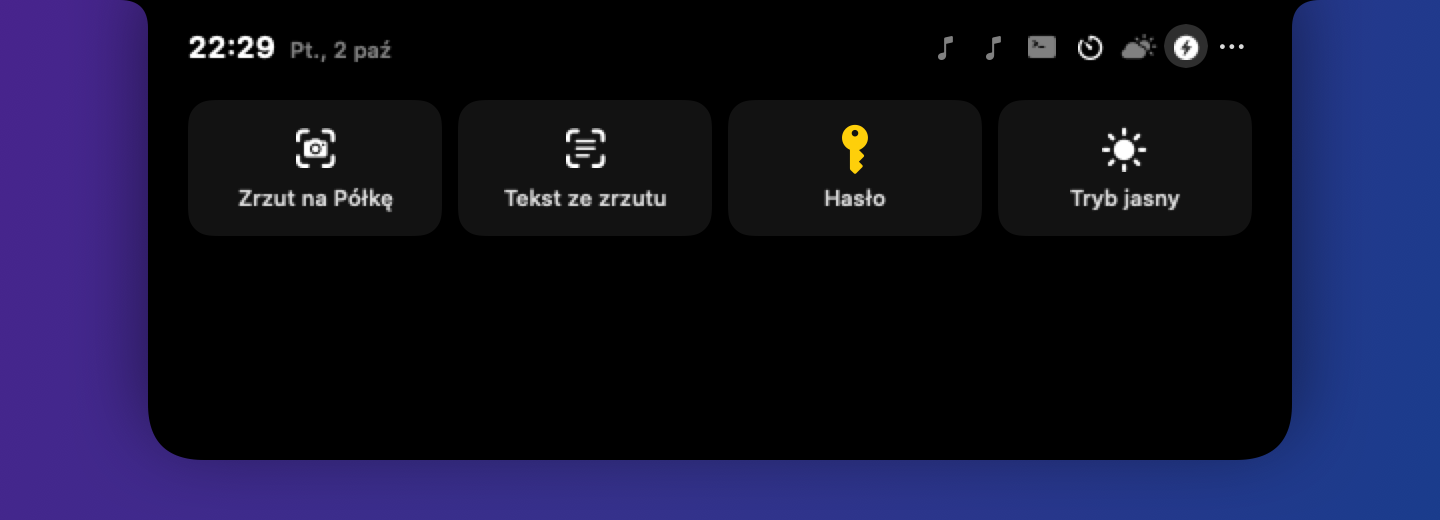
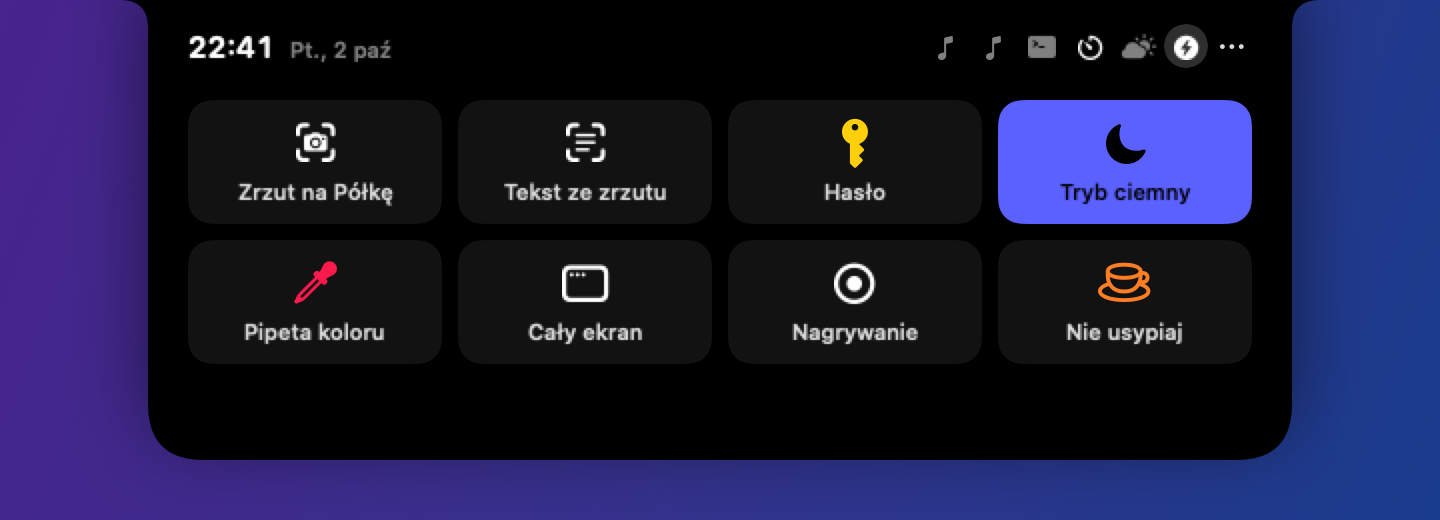
feat: Szybkie akcje — 8 miejsc z wyborem akcji i przełącznikiem, osobna karta ustawień
W każdym miejscu akcja z listy (wybór zajętej = zamiana miejsc) i przełącznik, najmniej
2 włączone. Kafelki i skróty w nowej karcie „Szybkie akcje” okna ustawień.

Claude-Session: https://claude.ai/code/session_01FJMsysatB5QqQDV4814giK

diff --git a/Sources/Features/QuickActions/QuickActionsModule.swift b/Sources/Features/QuickActions/QuickActionsModule.swift
@@ -19,8 +19,10 @@ public final class QuickActionsModule: IslandModule {
 
     static let shelfZone = "shelf.store"
     private static let shortcutsKey = "shortcuts"
-    private static let visibleKey = "visibleActions"
-    static let defaultVisible: [Action] = [.capture, .captureText, .password, .darkMode]
+    private static let slotsKey = "slots"
+    public typealias Slot = ActionSlot<Action>
+    static let defaultSlots: [Slot] = [Action.capture, .captureText, .password, .darkMode, .pickColor, .captureScreen, .record, .keepAwake]
+        .map { Slot(action: $0, isEnabled: true) }
 
     public enum Action: String, CaseIterable, Codable, Sendable {
         case capture, captureScreen, captureText, record, pickColor, password, darkMode, desktopIcons, lock, keepAwake
@@ -39,12 +41,30 @@ public final class QuickActionsModule: IslandModule {
             case .keepAwake: "Nie usypiaj (przełącz)"
             }
         }
+
+        /// Ikona na liście wyboru w ustawieniach.
+        public var symbol: String {
+            switch self {
+            case .capture: "camera.viewfinder"
+            case .captureScreen: "macwindow"
+            case .captureText: "text.viewfinder"
+            case .record: "record.circle"
+            case .pickColor: "eyedropper"
+            case .password: "key.fill"
+            case .darkMode: "circle.lefthalf.filled"
+            case .desktopIcons: "menubar.dock.rectangle"
+            case .lock: "lock.fill"
+            case .keepAwake: "cup.and.saucer"
+            }
+        }
     }
     static let feedbackDisplay: Duration = .seconds(3)
 
     public private(set) var isKeepingAwake = false
-    /// Kafelki w wyspie (2–4, w kolejności z `Action.allCases`); skróty działają dla wszystkich akcji.
-    public private(set) var visibleActions: [Action]
+    /// 8 miejsc: w każdym akcja z listy i przełącznik (najmniej 2 włączone); skróty działają dla wszystkich akcji.
+    public private(set) var slots: [Slot]
+    /// Kafelki w wyspie: akcje z włączonych miejsc, w kolejności miejsc.
+    public var visibleActions: [Action] { slots.filter(\.isEnabled).map(\.action) }
     public private(set) var isDarkMode = false
     public private(set) var desktopIconsVisible = true
     /// Hasło znika ze schowka po tym czasie, jeśli nic innego nie zostało skopiowane.
@@ -68,9 +88,7 @@ public final class QuickActionsModule: IslandModule {
 
     public required init(context: ModuleContext) {
         self.context = context
-        let storedVisible: [String] = context.settings.value(Self.visibleKey, default: Self.defaultVisible.map(\.rawValue))
-        let restored = Action.allCases.filter { storedVisible.contains($0.rawValue) }
-        visibleActions = QuickActionsLogic.visibleRange.contains(restored.count) ? restored : Self.defaultVisible
+        slots = QuickActionsLogic.validated(context.settings.value(Self.slotsKey, default: [Slot]?.none), default: Self.defaultSlots)
         let stored: [String: HotkeyShortcut] = context.settings.value(Self.shortcutsKey, default: [:])
         shortcuts = Dictionary(uniqueKeysWithValues: stored.compactMap { key, value in Action(rawValue: key).map { ($0, value) } })
     }
@@ -95,18 +113,23 @@ public final class QuickActionsModule: IslandModule {
 
     // MARK: - Skróty
 
-    func isVisible(_ action: Action) -> Bool { visibleActions.contains(action) }
-
-    /// Czy przełącznik akcji jest aktywny (nie da się zejść poniżej 2 ani przekroczyć 4).
-    func canToggle(_ action: Action) -> Bool {
-        QuickActionsLogic.toggling(action, in: visibleActions, order: Action.allCases) != nil
+    func chooseAction(_ action: Action, at index: Int) {
+        save(QuickActionsLogic.choosing(action, at: index, in: slots))
     }
 
-    func setVisible(_ action: Action, _ visible: Bool) {
-        guard visible != isVisible(action),
-              let next = QuickActionsLogic.toggling(action, in: visibleActions, order: Action.allCases) else { return }
-        visibleActions = next
-        context.settings.set(next.map(\.rawValue), for: Self.visibleKey)
+    /// Czy przełącznik miejsca jest aktywny (wyłączyć można tylko, gdy zostaną najmniej 2 włączone).
+    func canSetSlot(_ enabled: Bool, at index: Int) -> Bool {
+        QuickActionsLogic.setting(enabled, at: index, in: slots) != nil
+    }
+
+    func setSlot(_ enabled: Bool, at index: Int) {
+        guard let next = QuickActionsLogic.setting(enabled, at: index, in: slots) else { return }
+        save(next)
+    }
+
+    private func save(_ next: [Slot]) {
+        slots = next
+        context.settings.set(next, for: Self.slotsKey)
     }
 
     func setShortcut(_ shortcut: HotkeyShortcut?, for action: Action) {

diff --git a/Tests/WyspaQuickActionsTests/QuickActionsTests.swift b/Tests/WyspaQuickActionsTests/QuickActionsTests.swift
@@ -86,32 +86,35 @@ struct QuickActionsSelectionTests {
         #expect(QuickActionsLogic.password() != QuickActionsLogic.password())
     }
 
-    @Test("Widoczne akcje: od 2 do 4, kolejność stała")
-    func toggling() {
-        let order = QuickActionsModule.Action.allCases
-        let four: [QuickActionsModule.Action] = [.capture, .captureText, .password, .darkMode]
-        #expect(QuickActionsLogic.toggling(.lock, in: four, order: order) == nil, "piąta akcja niedozwolona")
-        let three = QuickActionsLogic.toggling(.password, in: four, order: order)
-        #expect(three == [.capture, .captureText, .darkMode])
-        let two = QuickActionsLogic.toggling(.capture, in: three!, order: order)
-        #expect(two == [.captureText, .darkMode])
-        #expect(QuickActionsLogic.toggling(.darkMode, in: two!, order: order) == nil, "mniej niż 2 niedozwolone")
-        #expect(QuickActionsLogic.toggling(.record, in: two!, order: order) == [.captureText, .record, .darkMode])
+    @Test("Miejsca: wybór akcji zamienia z innym miejscem, najmniej 2 włączone")
+    func slots() {
+        typealias Slot = ActionSlot<QuickActionsModule.Action>
+        let slots = QuickActionsModule.defaultSlots
+        #expect(slots.count == QuickActionsLogic.slotCount && slots.allSatisfy(\.isEnabled))
+        let swapped = QuickActionsLogic.choosing(.keepAwake, at: 0, in: slots)
+        #expect(swapped[0].action == .keepAwake && swapped[7].action == .capture, "zamiana zamiast duplikatu")
+        let fresh = QuickActionsLogic.choosing(.lock, at: 1, in: slots)
+        #expect(fresh[1].action == .lock && Set(fresh.map(\.action)).count == 8)
+        var current = slots
+        for index in 0..<6 { current = QuickActionsLogic.setting(false, at: index, in: current)! }
+        #expect(current.filter(\.isEnabled).count == 2)
+        #expect(QuickActionsLogic.setting(false, at: 6, in: current) == nil, "mniej niż 2 niedozwolone")
+        #expect(QuickActionsLogic.setting(true, at: 0, in: current) != nil)
     }
 
-    @Test("Wybór zapisuje się; przełącznik zablokowany na granicach")
+    @Test("Zapis miejsc i odrzucenie uszkodzonego zapisu")
     func persisted() throws {
-        let defaults = try #require(UserDefaults(suiteName: "wyspa.quick.visible.\(UUID().uuidString)"))
+        let defaults = try #require(UserDefaults(suiteName: "wyspa.quick.slots.\(UUID().uuidString)"))
         let context = ModuleContext(settings: SettingsStore(defaults: defaults).moduleSettings(for: "quickactions"), requestExpand: {})
         let module = QuickActionsModule(context: context)
-        #expect(module.visibleActions == QuickActionsModule.defaultVisible)
-        #expect(!module.canToggle(.lock), "przy 4 widocznych nie da się włączyć piątej")
-        module.setVisible(.password, false)
-        module.setVisible(.lock, true)
-        #expect(QuickActionsModule(context: context).visibleActions == [.capture, .captureText, .darkMode, .lock])
-        module.setVisible(.capture, false)
-        module.setVisible(.captureText, false)
-        #expect(module.visibleActions.count == 2 && !module.canToggle(.darkMode))
+        #expect(module.visibleActions.count == 8)
+        module.chooseAction(.desktopIcons, at: 2)
+        module.setSlot(false, at: 3)
+        let restored = QuickActionsModule(context: context)
+        #expect(restored.slots[2].action == .desktopIcons && !restored.slots[3].isEnabled)
+        #expect(restored.visibleActions.count == 7 && restored.canSetSlot(true, at: 3))
+        let broken = [ActionSlot(action: QuickActionsModule.Action.capture, isEnabled: true)]
+        #expect(QuickActionsLogic.validated(broken, default: QuickActionsModule.defaultSlots) == QuickActionsModule.defaultSlots)
     }
 
     @Test("Ikony na biurku: brak ustawienia znaczy widoczne")

diff --git a/Sources/Features/QuickActions/QuickActionsLogic.swift b/Sources/Features/QuickActions/QuickActionsLogic.swift
@@ -29,16 +29,38 @@ public enum QuickActionsLogic {
         return "Skopiowano tekst: \(count) \(noun)"
     }
 
-    // MARK: - Widoczne akcje
+    // MARK: - Miejsca na akcje
 
-    /// Ile kafelków naraz: najmniej 2, najwięcej 4.
-    public static let visibleRange = 2...4
+    /// Stałe miejsca na kafelki w wyspie; w każdym wybrana akcja i przełącznik.
+    public static let slotCount = 8
+    public static let minimumEnabled = 2
 
-    /// Nowy zestaw widocznych akcji po przełączeniu jednej; `nil`, gdy wyszłoby poza zakres (zostaje jak było).
-    public static func toggling<Action: Hashable>(_ action: Action, in visible: [Action], order: [Action]) -> [Action]? {
-        let next = visible.contains(action) ? visible.filter { $0 != action } : visible + [action]
-        guard visibleRange.contains(next.count) else { return nil }
-        return order.filter(next.contains)
+    /// Wybór akcji w miejscu. Gdy ta akcja jest już w innym miejscu, miejsca zamieniają się akcjami (bez duplikatów).
+    public static func choosing<Action: Hashable>(_ action: Action, at index: Int, in slots: [ActionSlot<Action>]) -> [ActionSlot<Action>] {
+        guard slots.indices.contains(index) else { return slots }
+        let previous = slots[index].action
+        return slots.enumerated().map { offset, slot in
+            if offset == index { return ActionSlot(action: action, isEnabled: slot.isEnabled) }
+            if slot.action == action { return ActionSlot(action: previous, isEnabled: slot.isEnabled) }
+            return slot
+        }
+    }
+
+    /// Włączenie albo wyłączenie miejsca; `nil`, gdy zostałoby mniej niż 2 włączone.
+    public static func setting<Action: Hashable>(_ enabled: Bool, at index: Int, in slots: [ActionSlot<Action>]) -> [ActionSlot<Action>]? {
+        guard slots.indices.contains(index) else { return nil }
+        let next = slots.enumerated().map { offset, slot in
+            offset == index ? ActionSlot(action: slot.action, isEnabled: enabled) : slot
+        }
+        return next.filter(\.isEnabled).count >= minimumEnabled ? next : nil
+    }
+
+    /// Zapisane miejsca albo domyślne, gdy zapis jest niepełny, ma powtórki albo za mało włączonych.
+    public static func validated<Action: Hashable>(_ slots: [ActionSlot<Action>]?, default fallback: [ActionSlot<Action>]) -> [ActionSlot<Action>] {
+        guard let slots, slots.count == slotCount, Set(slots.map(\.action)).count == slotCount,
+              slots.filter(\.isEnabled).count >= minimumEnabled
+        else { return fallback }
+        return slots
     }
 
     // MARK: - Hasło
@@ -101,3 +123,17 @@ public enum QuickActionsLogic {
         return directory.appendingPathComponent("Zrzut \(formatter.string(from: date)).png")
     }
 }
+
+/// Miejsce na kafelek szybkiej akcji.
+public struct ActionSlot<Action: Hashable>: Hashable {
+    public let action: Action
+    public let isEnabled: Bool
+
+    public init(action: Action, isEnabled: Bool) {
+        self.action = action
+        self.isEnabled = isEnabled
+    }
+}
+
+extension ActionSlot: Codable where Action: Codable {}
+extension ActionSlot: Sendable where Action: Sendable {}

diff --git a/Sources/Features/QuickActions/QuickActionsView.swift b/Sources/Features/QuickActions/QuickActionsView.swift
@@ -7,7 +7,7 @@ struct QuickActionsView: View {
 
     var body: some View {
         VStack(alignment: .leading, spacing: 8) {
-            let columns = Array(repeating: GridItem(.flexible(), spacing: 8), count: compact ? 2 : module.visibleActions.count)
+            let columns = Array(repeating: GridItem(.flexible(), spacing: 8), count: min(module.visibleActions.count, 4))
             LazyVGrid(columns: columns, spacing: 8) {
                 ForEach(module.visibleActions, id: \.self) { action in
                     tile(action)
@@ -83,7 +83,7 @@ private struct ActionTile: View {
                     .minimumScaleFactor(0.8)
             }
             .frame(maxWidth: .infinity)
-            .padding(.vertical, compact ? 6 : 12)
+            .padding(.vertical, compact ? 5 : 9)
             .background(
                 RoundedRectangle(cornerRadius: 12, style: .continuous)
                     .fill(isOn ? tint : .white.opacity(isHovered ? 0.14 : 0.07))
@@ -100,14 +100,26 @@ struct QuickActionsSettingsView: View {
 
     var body: some View {
         VStack(alignment: .leading, spacing: 6) {
-            Text("Widoczne w wyspie (od 2 do 4)").font(.headline)
-            ForEach(QuickActionsModule.Action.allCases, id: \.self) { action in
-                Toggle(action.displayName, isOn: Binding(get: { module.isVisible(action) },
-                                                         set: { module.setVisible(action, $0) }))
-                    .toggleStyle(.switch)
-                    .disabled(!module.canToggle(action))
+            Text("Kafelki w wyspie").font(.headline)
+            ForEach(Array(module.slots.enumerated()), id: \.offset) { index, slot in
+                HStack(spacing: 10) {
+                    Text("\(index + 1).").monospacedDigit().foregroundStyle(.secondary).frame(width: 20, alignment: .trailing)
+                    Picker("", selection: Binding(get: { slot.action }, set: { module.chooseAction($0, at: index) })) {
+                        ForEach(QuickActionsModule.Action.allCases, id: \.self) { action in
+                            Label(action.displayName, systemImage: action.symbol).tag(action)
+                        }
+                    }
+                    .labelsHidden()
+                    .frame(maxWidth: 260)
+                    .disabled(!slot.isEnabled)
+                    Spacer()
+                    Toggle("", isOn: Binding(get: { slot.isEnabled }, set: { module.setSlot($0, at: index) }))
+                        .toggleStyle(.switch)
+                        .labelsHidden()
+                        .disabled(!module.canSetSlot(!slot.isEnabled, at: index))
+                }
             }
-            Text("Gdy widoczne są 4 akcje, wyłącz jedną, żeby włączyć inną. Najmniej 2 muszą zostać.")
+            Text("Wybór akcji, która jest już w innym miejscu, zamienia je miejscami. Najmniej 2 kafelki muszą zostać włączone.")
                 .font(.caption).foregroundStyle(.secondary)
             Divider()
             Text("Skróty klawiszowe").font(.headline)

diff --git a/Sources/WyspaApp/Settings/SettingsView.swift b/Sources/WyspaApp/Settings/SettingsView.swift
@@ -18,6 +18,8 @@ struct SettingsView: View {
                 .tabItem { Label("Moduły", systemImage: "square.grid.2x2") }
             BoardEditorView(settings: settings, registry: registry)
                 .tabItem { Label("Układ", systemImage: "rectangle.3.group") }
+            QuickActionsTab(registry: registry)
+                .tabItem { Label("Szybkie akcje", systemImage: "bolt.circle") }
         }
         .frame(width: 720, height: 620)
     }
@@ -148,5 +150,20 @@ struct ProblemText: View {
         Label(text, systemImage: "exclamationmark.triangle.fill")
             .font(.callout)
             .foregroundStyle(.orange)
+    }
+}
+
+/// Osobna karta dla Szybkich akcji: kafelki (8 miejsc) i skróty klawiszowe.
+private struct QuickActionsTab: View {
+    static let moduleID = "quickactions"
+    let registry: ModuleRegistry
+
+    var body: some View {
+        if registry.isActive(Self.moduleID), let view = registry.settingsView(for: Self.moduleID) {
+            ScrollView { view.padding(20).frame(maxWidth: .infinity, alignment: .leading) }
+        } else {
+            ContentUnavailableView("Szybkie akcje są wyłączone", systemImage: "bolt.circle",
+                                   description: Text("Włącz moduł „Szybkie akcje” w karcie Moduły."))
+        }
     }
 }

diff --git a/Sources/WyspaApp/Settings/ModulesSettingsView.swift b/Sources/WyspaApp/Settings/ModulesSettingsView.swift
@@ -75,7 +75,10 @@ private struct ModuleRow: View {
                     }
                 }
             }
-            if entry.isActive, let detail = registry.settingsView(for: entry.id) {
+            if entry.isActive, entry.id == "quickactions" {
+                Text("Kafelki i skróty ustawisz w karcie „Szybkie akcje”.")
+                    .font(.caption).foregroundStyle(.secondary).padding(.leading, 40)
+            } else if entry.isActive, let detail = registry.settingsView(for: entry.id) {
                 detail.padding(.leading, 40)
             }
         }

diff --git a/docs/teksty-ustawien.md b/docs/teksty-ustawien.md
@@ -1,7 +1,7 @@
 # Teksty w Ustawieniach Wyspy
 
 Spis tekstów widocznych w oknie **Ustawienia Wyspy** (stan na 2 października 2026). Przy zmianie tekstów w kodzie
-zaktualizuj też ten plik. Karty okna: **Ogólne · Wyspa · Moduły · Układ**.
+zaktualizuj też ten plik. Karty okna: **Ogólne · Wyspa · Moduły · Układ · Szybkie akcje**.
 
 ## Ogólne i Wyspa
 
@@ -108,10 +108,12 @@ zaktualizuj też ten plik. Karty okna: **Ogólne · Wyspa · Moduły · Układ**
 - **Pogoda** — „Temperatura w zwiniętej wyspie” · „Dane z Open-Meteo (bez konta). Wysyłane są tylko współrzędne
   zaokrąglone do ok. 1 km; odświeżanie przy otwarciu wyspy, gdy dane mają ponad 15 minut. Kliknięcie pogody otwiera
   aplikację Pogoda.”
-- **Szybkie akcje** — „Widoczne w wyspie (od 2 do 4)”: przełącznik przy każdej akcji — Zrzut na Półkę / Zrzut całego
-  ekranu / Tekst ze zrzutu / Nagrywanie ekranu / Pipeta koloru / Generator hasła / Tryb ciemny (przełącz) / Ikony na
-  biurku (przełącz) / Zablokuj ekran / Nie usypiaj (przełącz) · „Gdy widoczne są 4 akcje, wyłącz jedną, żeby włączyć
-  inną. Najmniej 2 muszą zostać.” · „Skróty klawiszowe” (te same akcje) · „Skróty działają w całym systemie, także przy
-  zwiniętej wyspie.”
+- **Szybkie akcje** (osobna karta; w karcie Moduły: „Kafelki i skróty ustawisz w karcie „Szybkie akcje”.”)
+  - „Kafelki w wyspie”: 8 miejsc, w każdym lista akcji (Zrzut na Półkę / Zrzut całego ekranu / Tekst ze zrzutu /
+    Nagrywanie ekranu / Pipeta koloru / Generator hasła / Tryb ciemny (przełącz) / Ikony na biurku (przełącz) /
+    Zablokuj ekran / Nie usypiaj (przełącz)) i przełącznik · „Wybór akcji, która jest już w innym miejscu, zamienia je
+    miejscami. Najmniej 2 kafelki muszą zostać włączone.”
+  - „Skróty klawiszowe” (wszystkie akcje) · „Skróty działają w całym systemie, także przy zwiniętej wyspie.”
+  - Moduł wyłączony: „Szybkie akcje są wyłączone” — „Włącz moduł „Szybkie akcje” w karcie Moduły.”
 - **Skróty** — „Nie masz jeszcze żadnych skrótów. Utwórz je w aplikacji Skróty.” · „Ulubione (pokazywane w wyspie;
   bez ulubionych widać wszystkie)” · „Uruchom skrót „…”” · „Odśwież”

diff --git a/CLAUDE.md b/CLAUDE.md
@@ -175,7 +175,7 @@ APP=$PWD/build/Wyspa.app/Contents
 | Historia schowka | `WyspaClipboard` | — | `changeCount` co 0,75 s tylko gdy włączony (zaakceptowany wyjątek); pomija Concealed/Transient; limit 10–500 (przypięte poza limitem, najwyżej 50, zostają po „Wyczyść”); tylko w pamięci; wyszukiwanie z „ł”→„l”; kliknięcie = kopiuj + `requestCollapse` + po 180 ms ⌘V przez `CGEvent` (tylko z Dostępnością, inaczej samo kopiowanie) |
 | Skróty | `WyspaShortcuts` | — | `/usr/bin/shortcuts list/run`, nazwy jako argumenty procesu (bez powłoki), ulubione w ustawieniach |
 | Lusterko | `WyspaMirror` | Kamera | sesja AVCapture tylko gdy widok zakładki jest w oknie |
-| Szybkie akcje | `WyspaQuickActions` | Nagrywanie ekranu (przy pierwszym zrzucie) | zrzut `screencapture -i`; „Tekst ze zrzutu” = Vision `VNRecognizeTextRequest` (accurate, pl-PL + en-US, poza głównym wątkiem) → schowek, plik kasowany; skróty i widoczne kafelki zapisane po `rawValue` — nigdy nie zmieniaj istniejących nazw (test); widocznych 2–4 (`QuickActionsLogic.toggling`); hasło z `SystemRandomNumberGenerator`, w schowku jako `ConcealedType`, kasowane po 90 s; tryb ciemny przez System Events (Apple Events); ikony biurka = `CreateDesktop` Findera + `killall Finder`; zrzut całego ekranu i nagrywanie najpierw `requestCollapse` |
+| Szybkie akcje | `WyspaQuickActions` | Nagrywanie ekranu (przy pierwszym zrzucie) | zrzut `screencapture -i`; „Tekst ze zrzutu” = Vision `VNRecognizeTextRequest` (accurate, pl-PL + en-US, poza głównym wątkiem) → schowek, plik kasowany; skróty i widoczne kafelki zapisane po `rawValue` — nigdy nie zmieniaj istniejących nazw (test); 8 miejsc `ActionSlot` (akcja + przełącznik, najmniej 2 włączone, wybór zajętej akcji = zamiana; `QuickActionsLogic.choosing/setting/validated`), ustawienia w osobnej karcie okna (`QuickActionsTab`); hasło z `SystemRandomNumberGenerator`, w schowku jako `ConcealedType`, kasowane po 90 s; tryb ciemny przez System Events (Apple Events); ikony biurka = `CreateDesktop` Findera + `killall Finder`; zrzut całego ekranu i nagrywanie najpierw `requestCollapse` |
 
 ## Monitor Claude Code (etap 6, moduł `WyspaClaudeMonitor`)
 

diff --git a/README.md b/README.md
@@ -268,8 +268,9 @@ w zwiniętej wyspie (domyślnie wyłączona).
 
 ### Szybkie akcje
 
-W wyspie widać od 2 do 4 przycisków (domyślnie: Zrzut na Półkę, Tekst ze zrzutu, Hasło, Tryb ciemny); które,
-wybierasz przełącznikami w ustawieniach modułu. Do wyboru:
+W wyspie jest 8 miejsc na przyciski. W osobnej karcie ustawień **Szybkie akcje** w każdym miejscu wybierasz akcję
+z listy i włączasz albo wyłączasz je przełącznikiem (najmniej 2 muszą zostać włączone; wybór akcji zajętej przez inne
+miejsce zamienia je miejscami). Do wyboru:
 - **Zrzut na Półkę**: zaznaczasz obszar ekranu, zrzut ląduje na Półce (gdy Półka jest wyłączona — w schowku).
   Przy pierwszym użyciu macOS zapyta o zgodę na nagrywanie ekranu dla Wyspy.
 - **Cały ekran**: zrzut ekranu głównego na Półkę (wyspa najpierw się zwija, żeby nie było jej na zrzucie).
